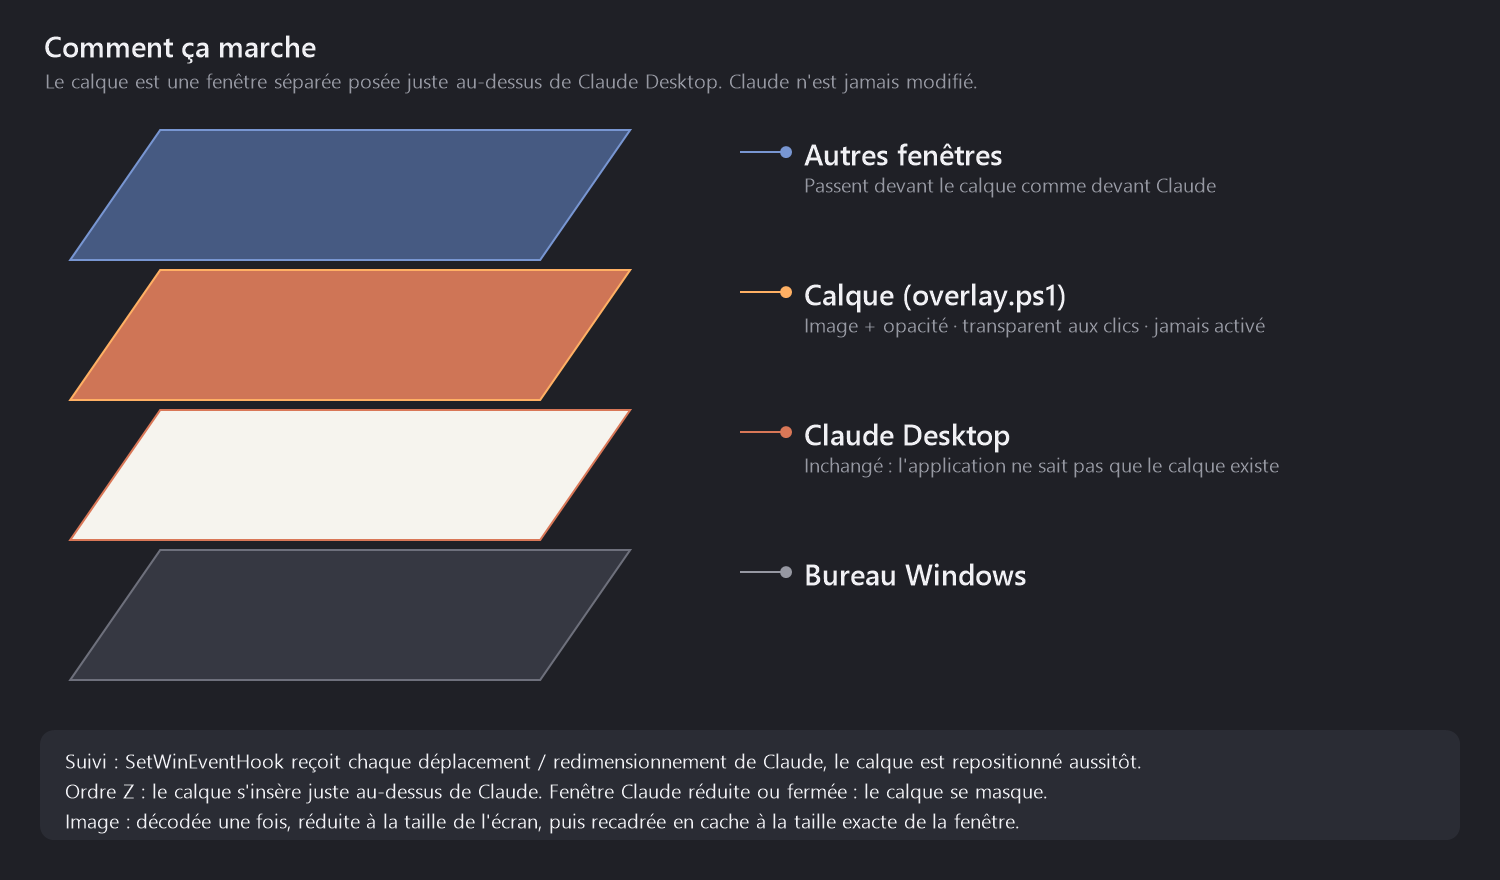
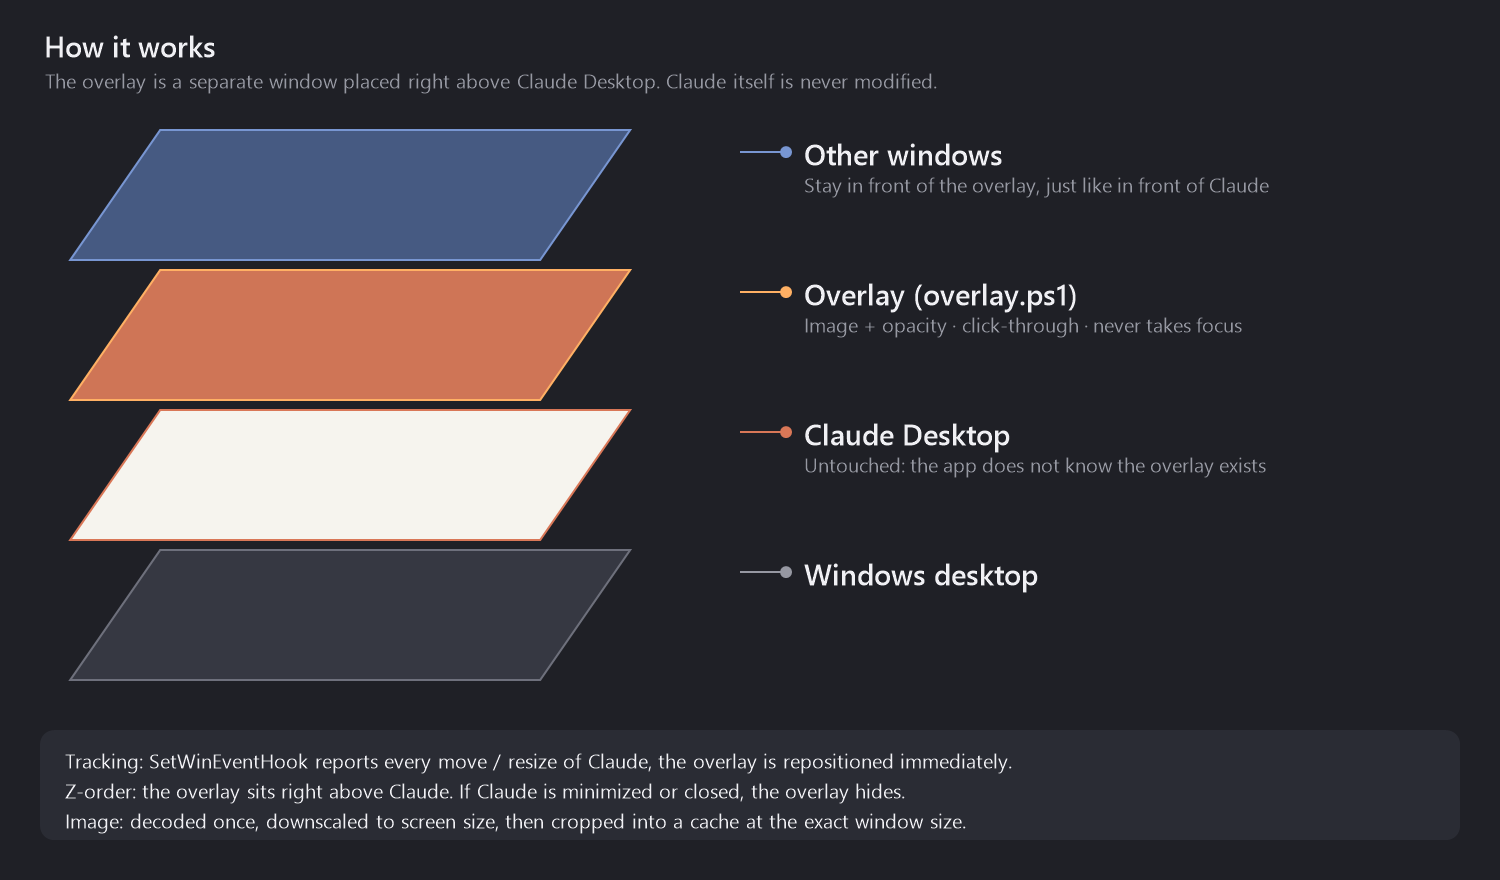
docs: README and illustrations in English

diff --git a/README.md b/README.md
@@ -1,162 +1,163 @@
 # Claude Desktop Custom Background
 
-Affiche une image de fond, avec l'opacité de ton choix, sur **Claude Desktop**.
+Show a background image, with the opacity of your choice, on **Claude Desktop**.
 
-![Plateforme : Windows](https://img.shields.io/badge/plateforme-Windows%2010%20%7C%2011-0078D4)
-![Dépendances : aucune](https://img.shields.io/badge/d%C3%A9pendances-aucune-brightgreen)
+![Platform: Windows](https://img.shields.io/badge/platform-Windows%2010%20%7C%2011-0078D4)
+![Dependencies: none](https://img.shields.io/badge/dependencies-none-brightgreen)
 
-> **Windows uniquement pour le moment.** Le projet utilise l'API Win32 (fenêtres, événements, DWM) via PowerShell et .NET Framework, fournis avec Windows. Aucun équivalent macOS/Linux n'existe encore.
+> **Windows only for now.** The project relies on the Win32 API (windows, events, DWM) through PowerShell and .NET Framework, both shipped with Windows. There is no macOS or Linux equivalent yet.
 
-![Comparaison de plusieurs opacités](docs/opacity-comparison.png)
+![Comparison of several opacities](docs/opacity-comparison.png)
 
-*Illustrations générées : maquette de l'interface avec l'image d'exemple fournie dans [`assets/`](assets/), pas de vraies captures d'écran. Seule la valeur `opacity` change d'une image à l'autre.*
+*Generated illustrations: a UI mockup with the sample image shipped in [`assets/`](assets/), not real screenshots. Only the `opacity` value changes from one panel to the next.*
 
-## Sommaire
+## Table of contents
 
-- [Pourquoi un calque et pas du CSS ?](#pourquoi-un-calque-et-pas-du-css-)
+- [Why an overlay instead of CSS?](#why-an-overlay-instead-of-css)
 - [Installation](#installation)
 - [Configuration](#configuration)
-- [Lancement avec Claude Desktop](#lancement-avec-claude-desktop)
-- [Fonctionnement](#fonctionnement)
-- [Limites](#limites)
-- [Dépannage](#dépannage)
-- [Désinstallation](#désinstallation)
+- [Starting with Claude Desktop](#starting-with-claude-desktop)
+- [How it works](#how-it-works)
+- [Limitations](#limitations)
+- [Troubleshooting](#troubleshooting)
+- [Uninstall](#uninstall)
+- [Repository contents](#repository-contents)
 
-## Pourquoi un calque et pas du CSS ?
+## Why an overlay instead of CSS?
 
-Claude Desktop est une application Electron : on pourrait imaginer y injecter du CSS. Mais :
+Claude Desktop is an Electron app, so injecting CSS may sound like the obvious route. It is not an option:
 
-- l'application est installée en MSIX dans `C:\Program Files\WindowsApps\`, un dossier en lecture seule qui se met à jour tout seul, donc on ne peut pas la patcher proprement ;
-- elle **refuse volontairement de démarrer** avec un port de debug (`--remote-debugging-port`) : `Claude: refusing to start — a debugging or network-override switch is present on the command line.`
+- the app is installed as an MSIX package in `C:\Program Files\WindowsApps\`, a read-only folder that updates itself, so it cannot be patched cleanly;
+- the app **deliberately refuses to start** with a debugging port (`--remote-debugging-port`): `Claude: refusing to start — a debugging or network-override switch is present on the command line.`
 
-Ce projet ne contourne donc rien : il ne touche pas à Claude. Il affiche **une fenêtre séparée**, transparente aux clics, posée au-dessus de la fenêtre de Claude.
+So this project does not work around anything and never touches Claude. It draws **a separate, click-through window** on top of the Claude window.
 
 ## Installation
 
-### Prérequis
+### Requirements
 
-- Windows 10 ou 11
-- Windows PowerShell 5.1 (déjà présent sur Windows, rien à installer)
+- Windows 10 or 11
+- Windows PowerShell 5.1 (already included in Windows, nothing to install)
 - Claude Desktop
 
-Testé sur Windows 11.
+Tested on Windows 11.
 
-### Étapes
+### Steps
 
-1. **Récupère le projet** : `git clone https://github.com/zomboky/claude-desktop-custom-background.git`, ou télécharge le ZIP depuis GitHub et décompresse-le. Place le dossier à un endroit stable : le lancement automatique en dépend.
+1. **Get the project**: `git clone https://github.com/zomboky/claude-desktop-custom-background.git`, or download the ZIP from GitHub and extract it. Keep the folder somewhere stable: the automatic startup depends on its location.
 
-2. **Choisis ton image** : dépose-la où tu veux (JPG, PNG, BMP, GIF ou TIFF ; le WebP n'est pas géré par .NET Framework). Pour tester sans rien faire, l'image d'exemple [`assets/sample-background.jpg`](assets/sample-background.jpg) est utilisée par défaut.
+2. **Pick your image**: put it anywhere you like (JPG, PNG, BMP, GIF or TIFF; WebP is not supported by .NET Framework). To try it out first, the sample [`assets/sample-background.jpg`](assets/sample-background.jpg) is used by default.
 
-3. **Lance l'installation** dans PowerShell, depuis le dossier du projet :
+3. **Run the installer** in PowerShell, from the project folder:
 
    ```powershell
    powershell -ExecutionPolicy Bypass -File .\install.ps1
    ```
 
-   Le script :
-   - crée `config.json` à partir de [`config.example.json`](config.example.json) s'il n'existe pas ;
-   - crée un raccourci dans ton dossier Démarrage (voir [Lancement avec Claude Desktop](#lancement-avec-claude-desktop)) ;
-   - démarre le calque tout de suite.
+   The script:
+   - creates `config.json` from [`config.example.json`](config.example.json) if it does not exist;
+   - creates a shortcut in your Startup folder (see [Starting with Claude Desktop](#starting-with-claude-desktop));
+   - starts the overlay right away.
 
-4. **Ouvre Claude Desktop** : l'image apparaît. Pas de droits administrateur nécessaires.
+4. **Open Claude Desktop**: the image shows up. No administrator rights needed.
 
-5. **Mets ton image** : édite `config.json` (voir ci-dessous). Le changement est pris en compte en une seconde environ, sans redémarrer.
+5. **Set your image**: edit `config.json` (see below). Changes are picked up within about a second, no restart needed.
 
-Pour un lancement ponctuel, sans installer le démarrage automatique :
+For a one-off run, without installing the automatic startup:
 
 ```powershell
 powershell -ExecutionPolicy Bypass -File .\overlay.ps1
 ```
 
-(la fenêtre PowerShell doit rester ouverte, ou utilise `wscript.exe start-hidden.vbs` pour un lancement sans fenêtre).
+(keep that PowerShell window open, or use `wscript.exe start-hidden.vbs` to run it without any window).
 
 ## Configuration
 
-Tout passe par `config.json`, relu en direct pendant que le calque tourne. `config.json` est ignoré par git : tes chemins personnels ne seront pas publiés.
+Everything is controlled by `config.json`, which is re-read live while the overlay runs. `config.json` is git-ignored, so your personal paths never get published.
 
 ```json
 {
-  "image": "C:/Users/toi/Pictures/mon-fond.png",
+  "image": "C:/Users/you/Pictures/my-background.png",
   "opacity": 0.15,
   "fit": "cover"
 }
 ```
 
-| Clé | Valeur | Rôle |
+| Key | Value | Purpose |
 | --- | --- | --- |
-| `image` | chemin | Image à afficher. Absolu, ou relatif au dossier de `config.json`. |
-| `opacity` | `0.01` à `0.99` (défaut `0.15`) | Opacité du calque. Plus c'est haut, plus l'image masque l'interface. |
-| `fit` | `"cover"` (défaut) ou `"stretch"` | `cover` remplit la fenêtre en recadrant sans déformer ; `stretch` étire l'image aux dimensions de la fenêtre. |
+| `image` | path | Image to display. Absolute, or relative to the folder containing `config.json`. |
+| `opacity` | `0.01` to `0.99` (default `0.15`) | Opacity of the overlay. The higher it is, the more the image hides the interface. |
+| `fit` | `"cover"` (default) or `"stretch"` | `cover` fills the window and crops without distortion; `stretch` stretches the image to the window size. |
 
-> **Attention aux chemins Windows dans le JSON.** Les `\` doivent être doublés (`C:\\Users\\toi\\...`) ou remplacés par des `/` (`C:/Users/toi/...`). Un fichier invalide est ignoré : l'ancienne image reste affichée.
+> **Mind Windows paths in JSON.** Backslashes must be doubled (`C:\\Users\\you\\...`) or replaced by forward slashes (`C:/Users/you/...`). An invalid file is ignored: the previous image stays displayed.
 
-Le calque est dessiné **par-dessus** l'interface (voir [Fonctionnement](#fonctionnement)) : garde une opacité basse, entre `0.05` et `0.2`, pour que le texte reste lisible.
+The overlay is drawn **on top of** the interface (see [How it works](#how-it-works)), so keep the opacity low, between `0.05` and `0.2`, to keep text readable.
 
-## Lancement avec Claude Desktop
+## Starting with Claude Desktop
 
-`install.ps1` ajoute le raccourci `Claude overlay.lnk` dans le dossier Démarrage de Windows (`shell:startup`). À chaque ouverture de session :
+`install.ps1` adds a `Claude overlay.lnk` shortcut to the Windows Startup folder (`shell:startup`). At every login:
 
-1. `start-hidden.vbs` lance `overlay.ps1` sans aucune fenêtre visible ;
-2. le calque attend en tâche de fond, invisible, sans rien afficher tant que Claude Desktop n'est pas ouvert ;
-3. dès qu'une fenêtre de Claude apparaît, il la recouvre. Quand tu réduis ou fermes Claude, il se masque ;
-4. un verrou interne (mutex) empêche de lancer deux instances.
+1. `start-hidden.vbs` launches `overlay.ps1` with no visible window;
+2. the overlay waits in the background, invisible, and shows nothing as long as Claude Desktop is not open;
+3. as soon as a Claude window appears, the overlay covers it. When you minimize or close Claude, it hides;
+4. an internal mutex prevents running two instances.
 
-Résultat : il se comporte comme s'il démarrait avec Claude Desktop, sans que tu aies à y penser. Le processus reste actif en permanence (environ 140 Mo de RAM) ; pour l'arrêter, clic droit sur son icône de la zone de notification, puis **Quitter**.
+The net effect is that it behaves as if it started with Claude Desktop, without you having to think about it. Strictly speaking it starts with your session, not with Claude. The process stays running (about 140 MB of RAM); to stop it, right-click its notification-area icon and choose **Quit**.
 
-Pour le relancer à la main :
+To restart it manually:
 
 ```powershell
 wscript.exe .\start-hidden.vbs
 ```
 
-## Fonctionnement
+## How it works
 
-![Schéma des couches](docs/how-it-works.png)
+![Layer diagram](docs/how-it-works.png)
 
-Tout est dans [`overlay.ps1`](overlay.ps1) : un petit programme C# compilé à la volée par PowerShell (`Add-Type`), sans rien à installer.
+Everything lives in [`overlay.ps1`](overlay.ps1): a small C# program compiled on the fly by PowerShell (`Add-Type`), with nothing to install.
 
-- **Une fenêtre séparée.** Le calque est un formulaire WinForms sans bordure avec les styles étendus `WS_EX_TRANSPARENT` (les clics passent au travers), `WS_EX_NOACTIVATE` (il ne prend jamais le focus) et `WS_EX_TOOLWINDOW` (pas d'entrée dans la barre des tâches ni dans Alt+Tab). L'opacité est celle de la fenêtre elle-même (`Form.Opacity`).
-- **Il retrouve Claude.** Il énumère les fenêtres de premier niveau de classe `Chrome_WidgetWin_1` appartenant à un processus `claude`, et garde la plus grande.
-- **Il suit Claude par événements.** Avec `SetWinEventHook`, Windows le prévient à chaque déplacement ou redimensionnement de la fenêtre (`EVENT_OBJECT_LOCATIONCHANGE`), au changement de premier plan, à la minimisation et à l'affichage/masquage. Pas de boucle de surveillance rapide : un minuteur de 250 ms ne sert que de filet de sécurité (ouverture de Claude, ordre des fenêtres).
-- **Dimensions exactes.** Il lit la zone visible via `DwmGetWindowAttribute(DWMWA_EXTENDED_FRAME_BOUNDS)`, qui exclut les marges invisibles de Windows 10/11, et se déclare compatible per-monitor DPI v2 pour avoir de vrais pixels sur les écrans à mise à l'échelle.
-- **Ordre Z.** Il se place **juste au-dessus de Claude** (`SetWindowPos` avec la fenêtre qui précède Claude), et non en « toujours au premier plan » : les autres fenêtres passent devant, comme elles le feraient devant Claude.
-- **Image rapide.** L'image est décodée une fois, réduite à la taille du plus grand écran et convertie en `Format32bppPArgb` (le format le plus rapide à dessiner). Une copie recadrée à la taille exacte de la fenêtre est mise en cache : déplacer la fenêtre ne redessine rien, la redimensionner ne refait que cette copie.
-- **Coins arrondis.** `DWMWA_WINDOW_CORNER_PREFERENCE` est réglé sur arrondi (Windows 11) pour épouser la fenêtre.
-- **Config en direct.** `config.json` est surveillé (date de modification) et rechargé sans redémarrage.
+- **A separate window.** The overlay is a borderless WinForms form using the extended styles `WS_EX_TRANSPARENT` (clicks go through), `WS_EX_NOACTIVATE` (it never takes focus) and `WS_EX_TOOLWINDOW` (no taskbar button, no Alt+Tab entry). The opacity is the window's own (`Form.Opacity`).
+- **It finds Claude.** It enumerates top-level windows of class `Chrome_WidgetWin_1` owned by a `claude` process and keeps the largest one.
+- **It follows Claude through events.** With `SetWinEventHook`, Windows notifies it on every move or resize of the window (`EVENT_OBJECT_LOCATIONCHANGE`), on foreground changes, on minimize/restore and on show/hide. There is no fast polling loop: a 250 ms timer is only a safety net (Claude opening, window order).
+- **Exact dimensions.** It reads the visible frame with `DwmGetWindowAttribute(DWMWA_EXTENDED_FRAME_BOUNDS)`, which excludes the invisible margins of Windows 10/11, and declares itself per-monitor DPI v2 aware so it works in real pixels on scaled displays.
+- **Z-order.** It sits **right above Claude** (`SetWindowPos` with the window that precedes Claude), rather than being "always on top": other windows stay in front, exactly as they would in front of Claude.
+- **Fast image.** The image is decoded once, downscaled to the size of the largest screen and converted to `Format32bppPArgb` (the fastest format to draw). A copy cropped to the exact window size is cached: moving the window repaints nothing, resizing it only rebuilds that copy.
+- **Rounded corners.** `DWMWA_WINDOW_CORNER_PREFERENCE` is set to rounded (Windows 11) to match the window.
+- **Live config.** `config.json` is watched (modification time) and reloaded without a restart.
 
-## Limites
+## Limitations
 
-- **Windows uniquement.** Aucun support macOS ou Linux pour l'instant.
-- **Le calque est au-dessus de l'interface**, pas derrière : les fonds de Claude sont opaques, un calque placé derrière serait invisible. L'image se superpose donc au texte, d'où l'opacité basse conseillée.
-- **Le suivi n'est pas parfaitement synchrone** : c'est une fenêtre séparée qui suit Claude. Un léger décalage est possible pendant un déplacement très rapide.
-- Le calque suit **une seule fenêtre Claude** : la plus grande visible.
-- Ce n'est pas une fonction de Claude Desktop : une mise à jour majeure de l'application qui changerait le type de ses fenêtres pourrait nécessiter d'adapter la détection (`IsClaudeWindow` dans `overlay.ps1`).
-- L'opacité est uniforme sur toute l'image, il n'y a pas de dégradé.
+- **Windows only.** No macOS or Linux support for now.
+- **The overlay is above the interface**, not behind it: Claude's backgrounds are opaque, so an overlay placed behind would be invisible. The image therefore sits on top of the text, hence the low opacity recommended.
+- **Tracking is not perfectly synchronous**: a separate window follows Claude, so a slight lag is possible during very fast moves.
+- The overlay follows **a single Claude window**: the largest visible one.
+- This is not a Claude Desktop feature: a major app update that changes the type of its windows could require adapting the detection (`IsClaudeWindow` in `overlay.ps1`).
+- Opacity is uniform over the whole image; there is no gradient.
 
-## Dépannage
+## Troubleshooting
 
-**L'image n'apparaît pas.**
-- Vérifie que le calque tourne : `Get-CimInstance Win32_Process -Filter "Name='powershell.exe'" | Where-Object { $_.CommandLine -match 'overlay.ps1' }`.
-- Vérifie que `config.json` est du JSON valide (chemins avec `/` ou `\\`) et que l'image existe.
-- Pour voir les messages, lance `overlay.ps1` dans une fenêtre PowerShell visible : `config: opacity=… image=…` confirme le chargement, `config: …` suivi d'une erreur en indique la cause.
+**The image does not show up.**
+- Check that the overlay is running: `Get-CimInstance Win32_Process -Filter "Name='powershell.exe'" | Where-Object { $_.CommandLine -match 'overlay.ps1' }`.
+- Check that `config.json` is valid JSON (paths with `/` or `\\`) and that the image exists.
+- To see its messages, run `overlay.ps1` in a visible PowerShell window: `config: opacity=… image=…` confirms the load, while `config: …` followed by an error tells you the cause.
 
-**Le calque ne se lance pas à l'ouverture de session.** Vérifie que `Claude overlay.lnk` est dans `shell:startup` et que le dossier du projet n'a pas été déplacé : relance `install.ps1` depuis le nouvel emplacement.
+**The overlay does not start at login.** Check that `Claude overlay.lnk` is in `shell:startup` and that the project folder has not been moved: run `install.ps1` again from the new location.
 
-## Désinstallation
+## Uninstall
 
 ```powershell
 powershell -ExecutionPolicy Bypass -File .\uninstall.ps1
 ```
 
-Le script arrête le calque et supprime le raccourci de démarrage. Aucun fichier de Claude Desktop n'ayant été modifié, il n'y a rien d'autre à restaurer. Tu peux ensuite supprimer le dossier du projet.
+The script stops the overlay and removes the startup shortcut. Since no Claude Desktop file was ever modified, there is nothing else to restore. You can then delete the project folder.
 
-## Contenu du dépôt
+## Repository contents
 
-| Fichier | Rôle |
+| File | Purpose |
 | --- | --- |
-| `overlay.ps1` | Le calque (PowerShell + C# inline). |
-| `start-hidden.vbs` | Lance `overlay.ps1` sans fenêtre. |
-| `install.ps1` / `uninstall.ps1` | Ajoute / retire le lancement automatique. |
-| `config.example.json` | Modèle de configuration. |
-| `assets/sample-background.jpg` | Image d'exemple générée pour ce projet. |
-| `docs/` | Illustrations du README. |
+| `overlay.ps1` | The overlay (PowerShell + inline C#). |
+| `start-hidden.vbs` | Runs `overlay.ps1` without a window. |
+| `install.ps1` / `uninstall.ps1` | Add / remove the automatic startup. |
+| `config.example.json` | Configuration template. |
+| `assets/sample-background.jpg` | Sample image generated for this project. |
+| `docs/` | README illustrations. |
